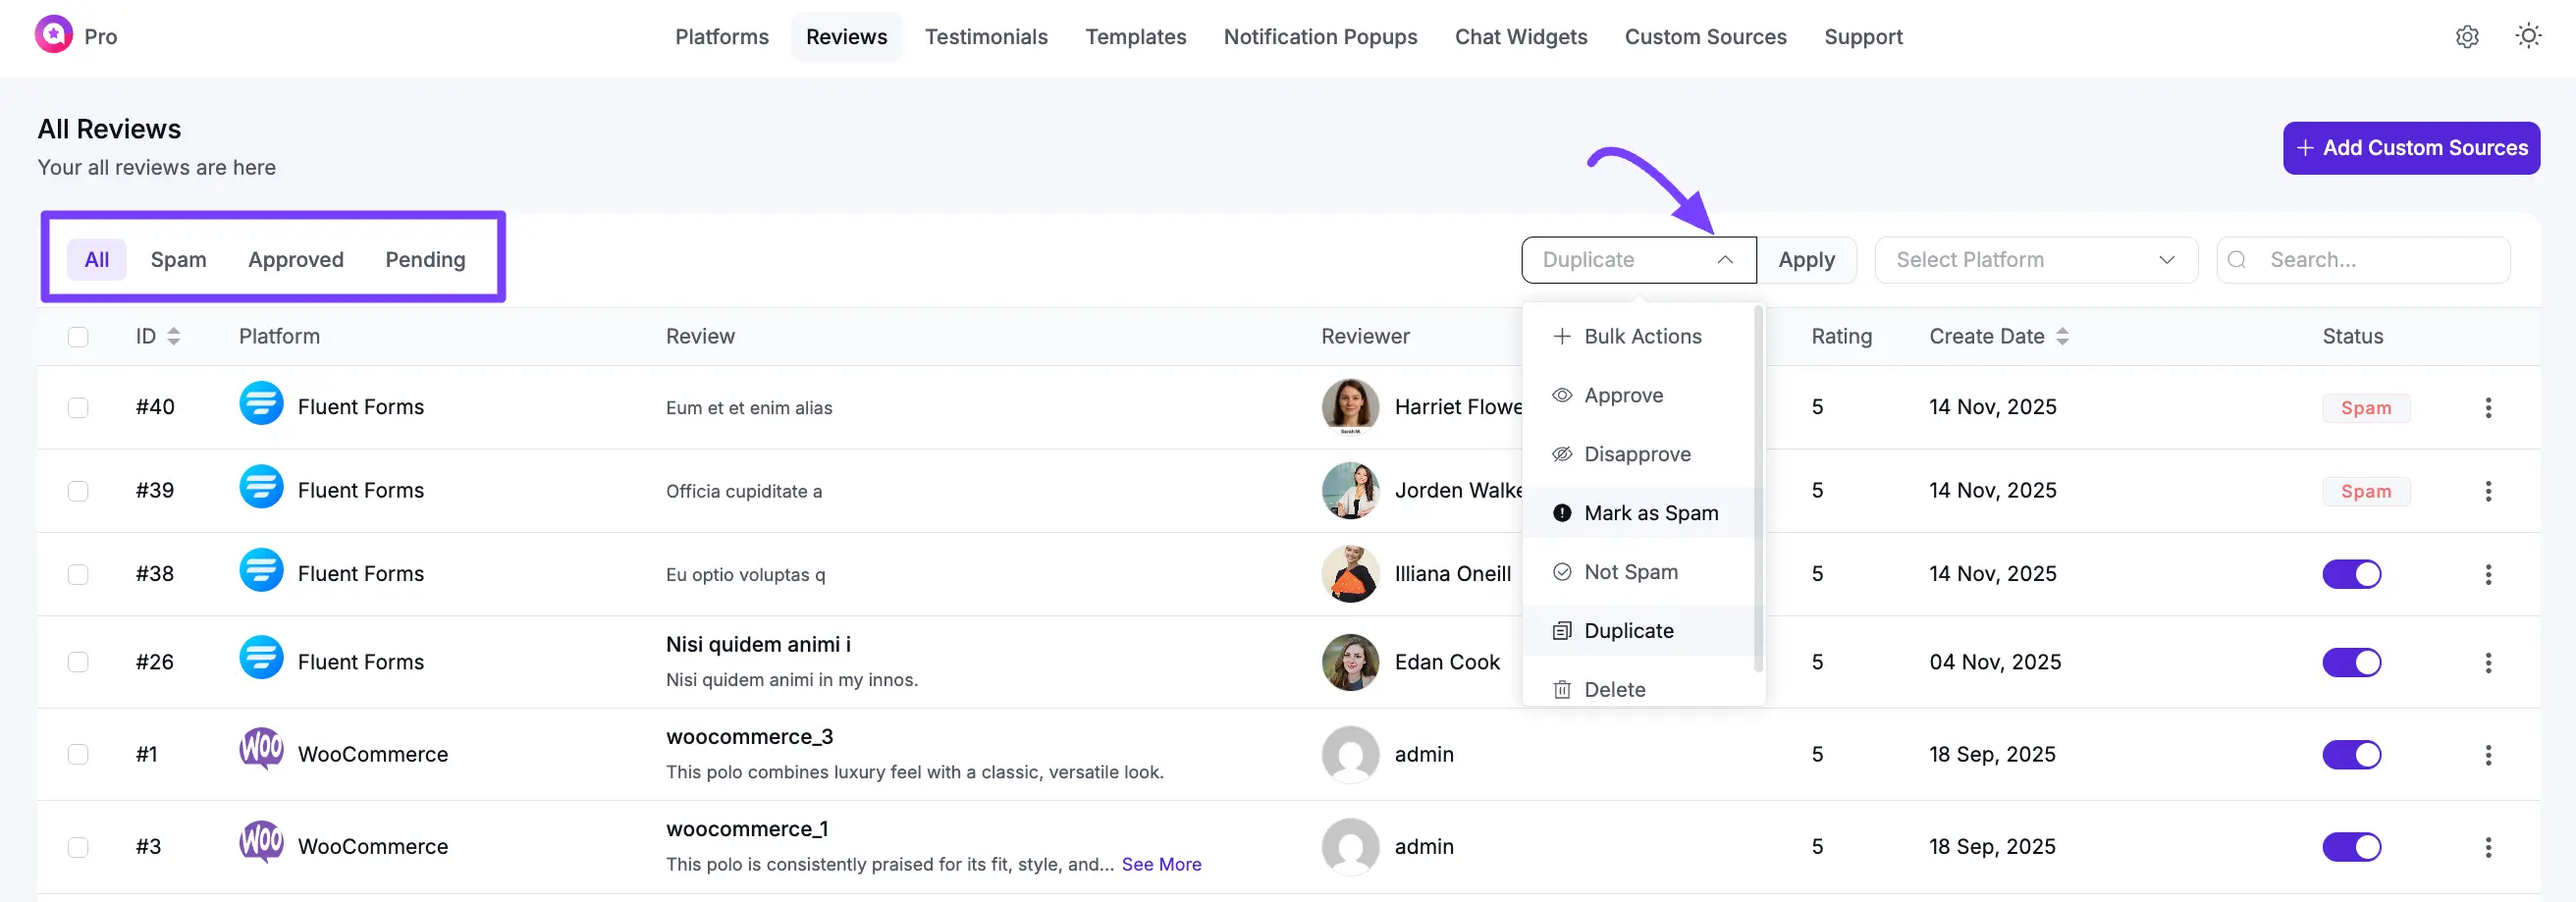
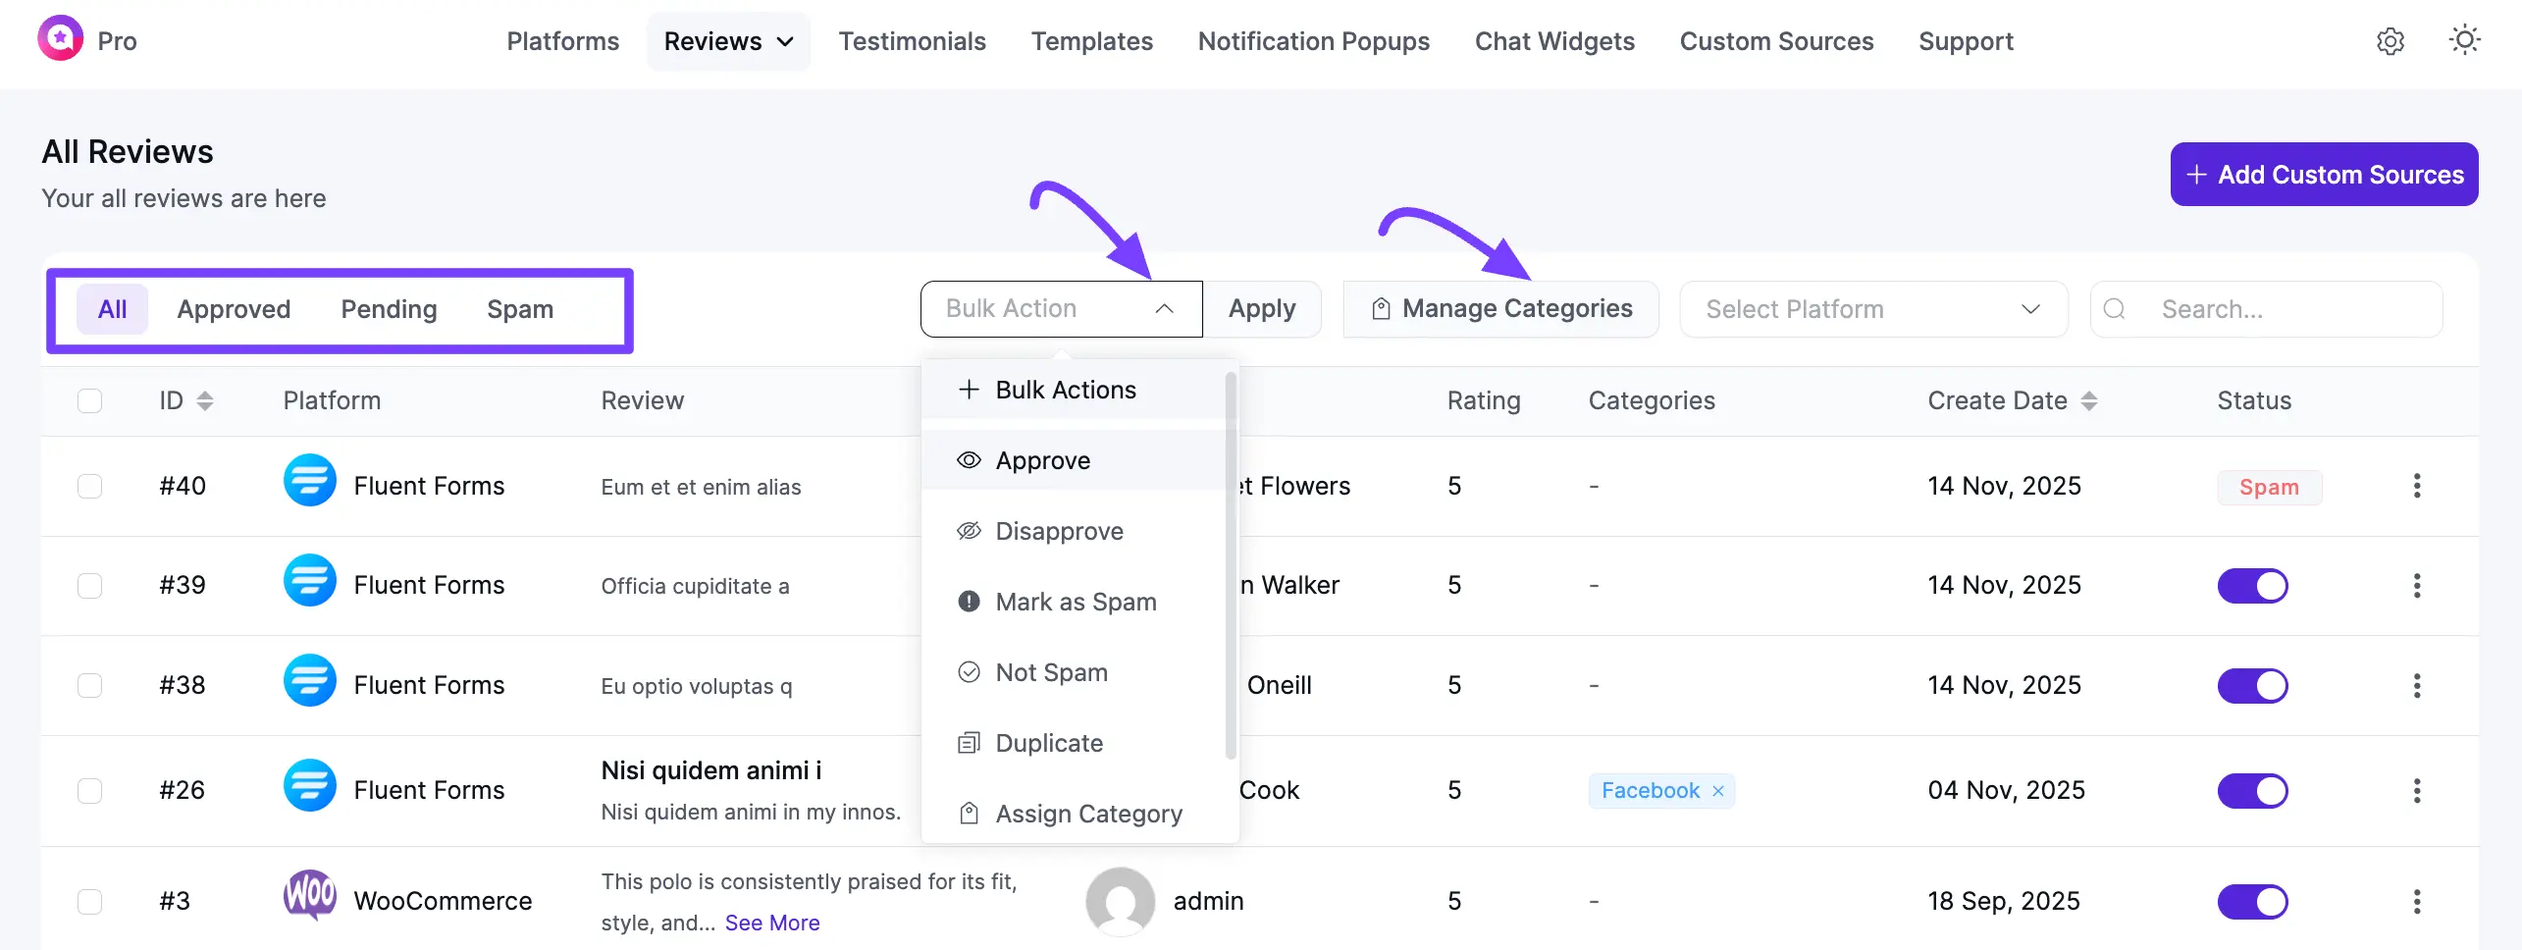
update reviews doc

diff --git a/guide/getting-started/reviews.md b/guide/getting-started/reviews.md
@@ -1,6 +1,6 @@
 ---
 title: "Reviews"
-description: "Learn how to manage, filter, and organize all your business reviews from Google, Yelp, Facebook, and other platforms in one central dashboard with WP Social Ninja."
+description: "Learn how to manage, filter, organize, and categorize all your business reviews from Google, Yelp, Facebook, and other platforms in one central dashboard with WP Social Ninja."
 ---
 
 # Reviews
@@ -37,11 +37,39 @@ Instead of managing reviews one by one, you can use **Bulk Actions** to save tim
  * **Mark as Spam:** Move unwanted reviews to the **Spam** folder. This is useful for cleaning up your list without permanently deleting entries.
  * **Not Spam:** If a review was accidentally flagged, use this to move it back to your main list.
  * **Duplicate:** Create copies of selected reviews (primarily used for Custom reviews).
+ * **Assign Category / Remove Category:** Apply or remove a review category across every selected review in one action.
  * **Delete:** Permanently remove the selected reviews from your database.
 
 Click **Apply** after selecting your desired action to execute the changes.
 
 ![The main Reviews dashboard in WP Social Ninja](/guide/public/images/getting-started/reviews/all-reviews-1.webp)
+
+## Organizing Reviews with Categories
+
+Once your review list grows, finding a specific set of reviews gets harder. **Review Categories** give you a reusable label you can apply to any review, from any connected platform, so you can group your reviews the way you actually think about your business — by product line, by service, by location, or by campaign.
+
+### Managing Your Categories
+
+Click the **Manage Categories** button located above your review list to launch the category management panel. From this modal, you can perform the following actions:
+
+ * **Create New Categories:** Type in a custom name to add a new category label.
+ * **Rename Categories:** Edit existing category names to keep your organization up to date.
+ * **Delete Categories:** Remove categories you no longer require. Deleting a category removes the tag from all assigned reviews without deleting the reviews themselves.
+
+Each category displays an active review count directly within the list, giving you immediate visibility into which areas have strong social proof and which need more feedback.
+
+> [!NOTE]
+> The **Manage Categories** button is visible only to users with appropriate permission levels. If the button is missing, contact your site administrator to adjust your account permissions.
+
+![Manage Category](/guide/public/images/getting-started/reviews/manage-categories-2.webp)
+
+### Assigning Categories to Reviews
+
+Select one or more reviews and use **Assign Category** / **Remove Category** from the **Bulk Actions** dropdown to tag or untag them.
+
+Once your reviews are categorized, use **Filter by Category** in your [review template](../business-reviews/create-template#4-filters) settings to display only the reviews from a specific category.
+
+![Assign Category](/guide/public/images/getting-started/reviews/assign-category-3.webp)
 
 ## Managing Individual Reviews
 

diff --git a/guide/business-reviews/create-template.md b/guide/business-reviews/create-template.md
@@ -98,7 +98,7 @@ Filters are how you refine your feed to only show the specific reviews you want.
 * **Show/Hide reviews containing these words:** These are moderation tools.
     > **Use Case:** You could use "Show" to create a feed that only mentions "customer service." Or, you could use "Hide" to filter out any reviews that mention a "bug" or "shipping problem."
 * **Filter by Business/Product:** (For WooCommerce/Custom Reviews) This lets you show reviews associated with only one specific product.
-* **Filter by Category:** Show reviews from only the [review categories](../getting-started/reviews) you choose. Categories are a reusable taxonomy you can apply to any review, regardless of platform — not just WooCommerce or Custom Reviews.
+* **Filter by Category:** Show reviews from only the [review categories](../getting-started/reviews#organizing-reviews-with-categories) you choose. Categories are a reusable taxonomy you can apply to any review, regardless of platform — not just WooCommerce or Custom Reviews.
 
 ![Create Review Template](/guide/public/images/business-reviews/create-a-template-social-reviews-wp-social-ninja/create-review-template-4.webp)
 
